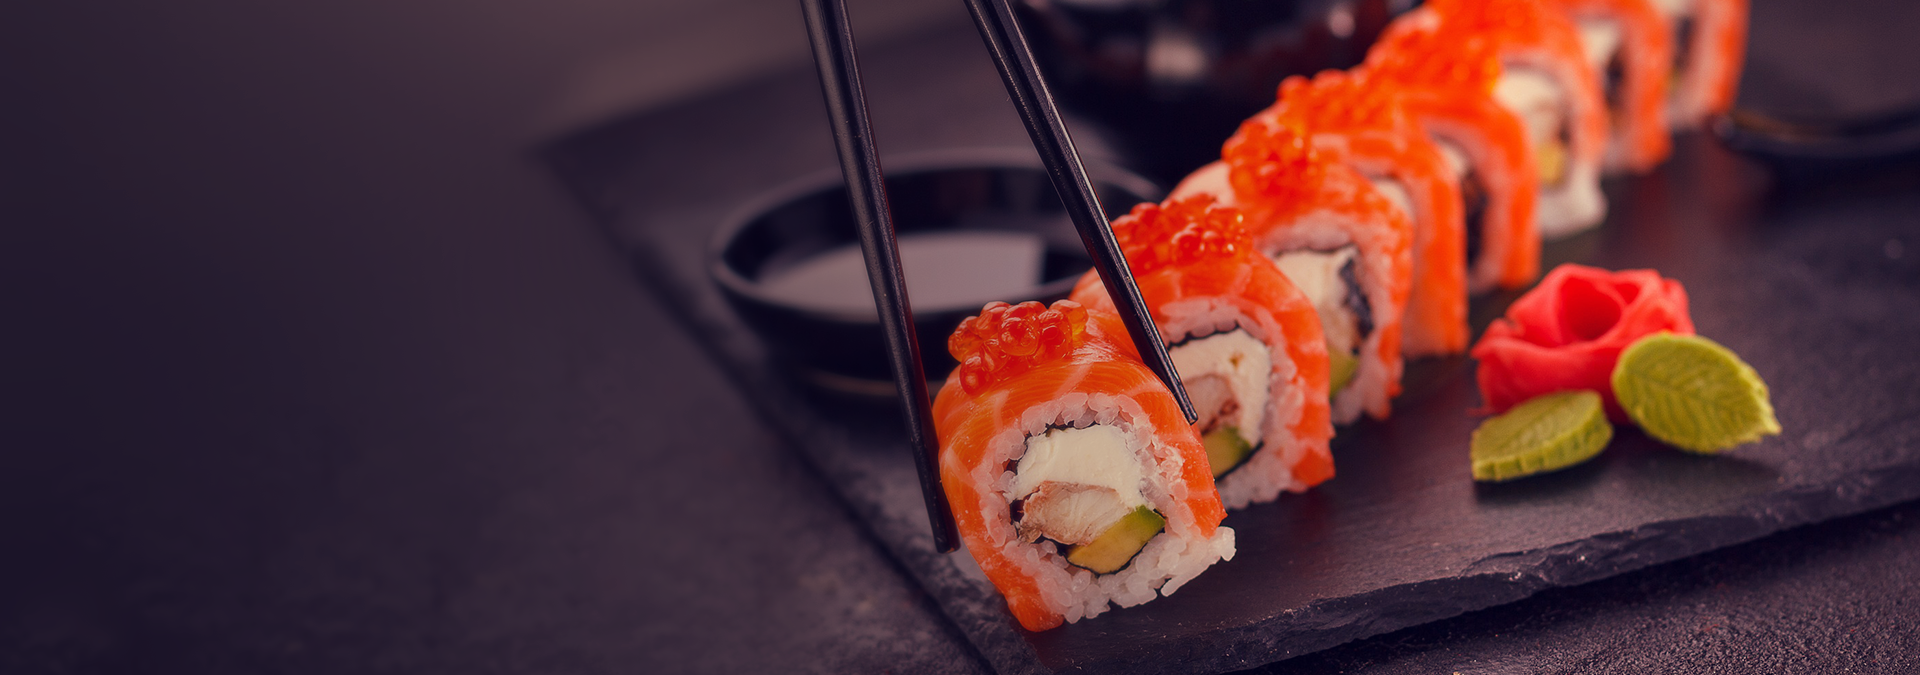
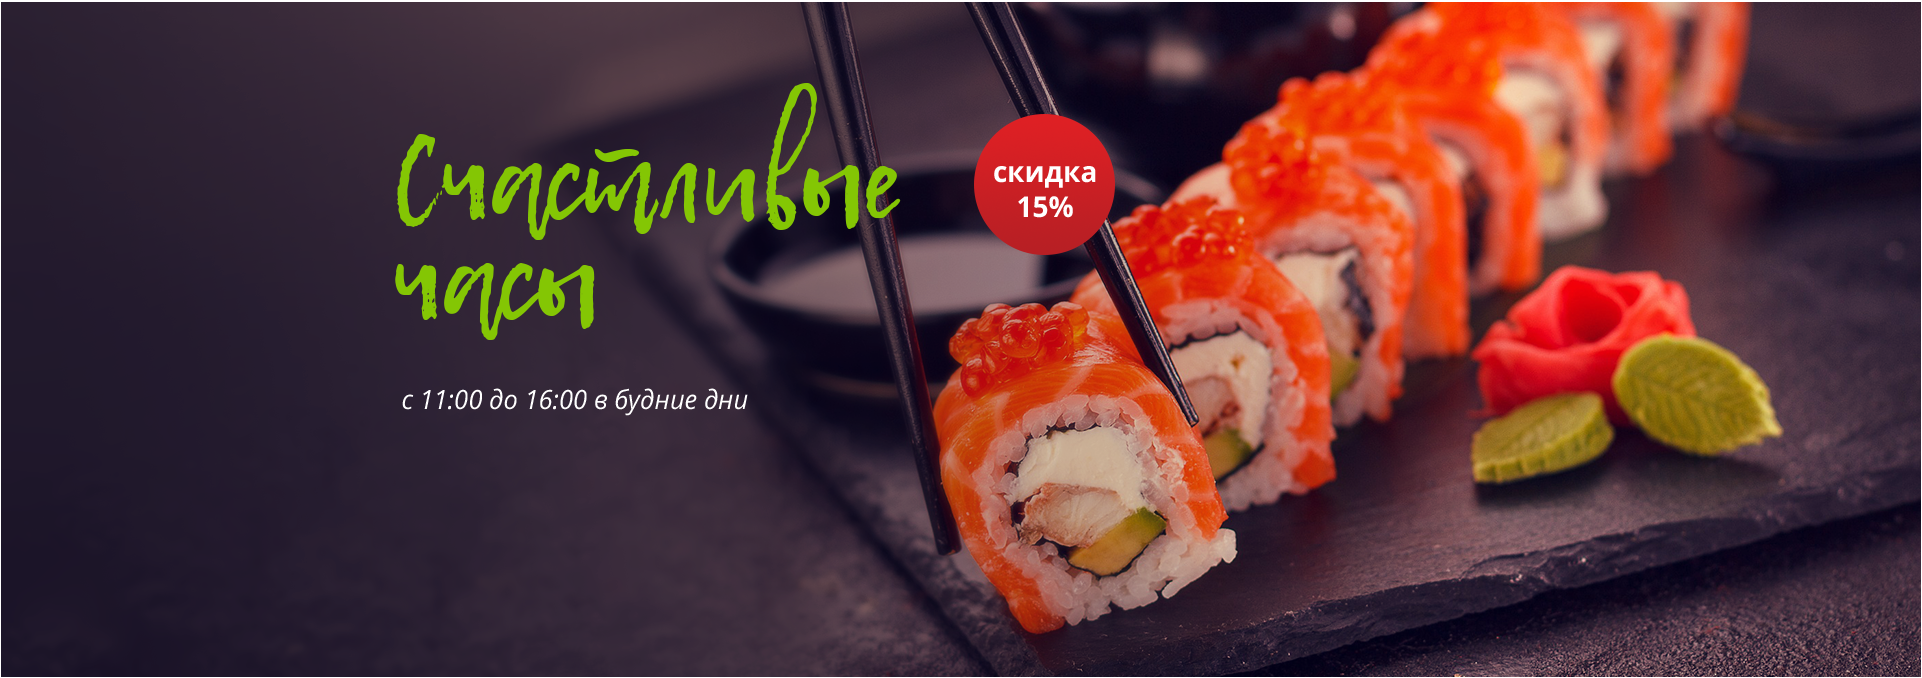
Created Slider component

diff --git a/src/scss/slider.scss b/src/scss/slider.scss
@@ -1,46 +1,89 @@
 .slider {
-    width: auto;
     position: relative;
+    width: 100%;
+    max-width: 1920px;
+}
+.slider img {
+    width: 100%;
+    height: auto;
+}
 
-    img {
-        display: block;
-        width: 100%;
+.slider .btn__more {
+    position: absolute;
+    top: 75%;
+    left: 25%;
+    transform: translate(-40%, -50%);
+
+    width: 180px;
+    height: 40px;
+
+    background-color: #fd4f10;
+    border: none;
+    border-radius: 4px;
+
+    text-transform: uppercase;
+    color: white;
+
+    cursor: pointer;
+    transition: background-color font-weight 0.2s ease-in;
+}
+
+.slider .btn__more:hover {
+    background-color: #f72525;
+    font-weight: 600;
+}
+
+.btn__paginator {
+    position: absolute;
+
+    background-color: transparent;
+    border: none;
+
+    width: 50px;
+    height: 40px;
+
+    cursor: pointer;
+
+    img:hover {
+        transform: translateY(5px);
     }
 }
 
-.pagination {
-    position: absolute;
-    bottom: 50px;
-    left: 150px;
-    right: 150px;
-
-    width: 50px;
-    height: 50px;
-
-    background-image: url("/img/slider/curcle.png");
-    background-repeat: no-repeat;
-    background-attachment: fixed;
+.btn__paginator:hover {
+    border: #f72525;
+    text-shadow: rgb(255, 255, 255) 1px 0 10px;
 }
 
-.discont {
-    width: 144px;
-    height: 144px;
-
-    position: absolute;
-    bottom: 425px;
-    left: 780px;
-    top: 108px;
-    right: 810px;
+.btn__paginator--left {
+    transform: rotate(180deg);
+    right: 95%;
+    bottom: 50%;
 }
 
-// .slider:first-child {
-//     content: "";
-//     display: inline-block;
-//     vertical-align: sub;
-//     width: 1611px;
-//     height: 319px;
-//     margin-right: 7px;
-//     background-image: url('/img/slider/pagination.png');
-//     background-repeat: no-repeat;
-//     background-size: initial;
-// }
+.btn__paginator--right {
+    right: 2%;
+    bottom: 50%;
+    img:hover {
+        transform: translateY(-5px);
+    }
+}
+
+.slider__paginator {
+    position: relative;
+    bottom: 300px;
+
+    display: flex;
+    justify-content: space-between;
+}
+
+.dots {
+    position: absolute;
+    bottom: 10%;
+    left: 47%;
+
+    .dot {
+        width: 16px;
+        height: 16px;
+        margin: 0 10px;
+    }
+}

diff --git a/src/_slider.html b/src/_slider.html
@@ -1,9 +1,19 @@
 <div class="slider">
     <img src="./img/slider/slide.png" alt="slide">
-    <div class="pagination">
-        <img src="./img/slider/pagination.png" alt="pagination">
-    </div>
-    <div class="discont">
-        <!-- <img src="./img/slider/curcle.png" alt="discont"> -->
+    
+    <button class="btn__more">подробнее</button>
+    
+    <button class="btn__paginator btn__paginator--left">
+        <img src="./img/slider/paginator/btn_arrow.png" alt="left">
+    </button>
+    
+    <button class="btn__paginator btn__paginator--right">
+        <img src="./img/slider/paginator/btn_arrow.png" alt="right">
+    </button>
+
+    <div class="dots">
+        <img class="dot" src="./img/slider/paginator/dot.png" alt="dot">
+        <img class="dot" src="./img/slider/paginator/dot.png" alt="dot">
+        <img class="dot" src="./img/slider/paginator/active_dot.png" alt="dot">
     </div>
 </div>
